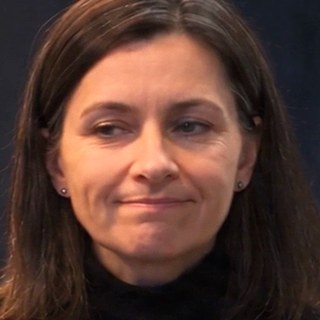
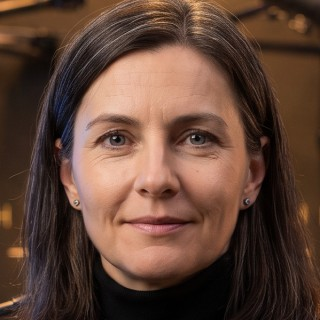
dron: Irena s portrétem ze studia, klik na video = play/pauza, klik mimo složí text, nadpis Jedna stránka, pět ploch

diff --git a/public/dron/index.html b/public/dron/index.html
@@ -1134,6 +1134,12 @@
   .li-vice:hover,.li-vice:focus-visible{color:#0a66c2;text-decoration:underline;outline:none}
   /* zvuk u rozhovoru: video hraje ztlumené jako ve feedu, tlačítko ho pustí nahlas */
   .li-mwrap{position:relative}
+  .li-mwrap video{cursor:pointer}
+  /* klik na video = play/pauza; ikona jen po ruční pauze, ne když video stojí mimo záběr */
+  .li-play{position:absolute;left:50%;top:50%;width:64px;height:64px;margin:-32px 0 0 -32px;border-radius:50%;
+    background:rgba(0,0,0,.55);display:none;place-items:center;pointer-events:none}
+  .li-play svg{width:26px;height:26px;fill:#fff;margin-left:3px}
+  .li-mwrap.li-pauza .li-play{display:grid}
   .li-zvuk{position:absolute;right:12px;bottom:12px;width:34px;height:34px;padding:0;border:0;border-radius:50%;
     background:rgba(0,0,0,.62);display:grid;place-items:center;cursor:pointer}
   .li-zvuk svg{width:18px;height:18px;fill:none;stroke:#fff;stroke-width:1.7;stroke-linecap:round;stroke-linejoin:round}
@@ -1826,8 +1832,8 @@
 <section id="marketing" class="sek">
   <div class="rám">
     <p class="kick">Posty a formáty</p>
-    <h2>Jedna věta, čtyři plochy</h2>
-    <p class="pod">Sdělení stránky zkrácené na jeden claim a jeden záběr, stejné v postu i na billboardu. Druhý post nese minutu z rozhovoru.</p>
+    <h2>Jedna stránka, pět ploch</h2>
+    <p class="pod">Claim a záběr ze stránky jsou v postu i na billboardu stejné. Druhý post nese minutu z rozhovoru.</p>
     <div class="mkt-posty">
       <div>
         <p class="mkt-stitek">LinkedIn &middot; video 4:5</p>
@@ -1852,11 +1858,14 @@
 
         <a href="#" onclick="return false">fly4future.com/custom-drones/roboaid</a></span></div>
 
-          <video class="li-media" id="livid" playsinline muted loop preload="metadata"
-            poster="/dron/li/post-poster.jpg"
-            aria-label="Promo video RoboAid ve formátu 4:5">
-            <source src="/dron/li/post.mp4" type="video/mp4">
-          </video>
+          <div class="li-mwrap">
+            <video class="li-media" id="livid" playsinline muted loop preload="metadata"
+              poster="/dron/li/post-poster.jpg"
+              aria-label="Promo video RoboAid ve formátu 4:5">
+              <source src="/dron/li/post.mp4" type="video/mp4">
+            </video>
+            <span class="li-play" aria-hidden="true"><svg viewBox="0 0 24 24"><path d="M7 4.5v15l12-7.5z"/></svg></span>
+          </div>
 
           <div class="li-eng" aria-hidden="true">
             <span class="li-reakce"><i class="li-r li-r-like"><svg viewBox="0 0 16 16"><path d="M4.2 7.2H2.6v6.2h1.6zM5.4 13.4h5.3c.6 0 1.1-.4 1.3-1l1.1-3.9c.2-.8-.4-1.6-1.2-1.6H9.4l.4-2.3c.1-.7-.4-1.3-1.1-1.3-.4 0-.7.2-.9.5L5.4 7.2z"/></svg></i><i class="li-r li-r-love"><svg viewBox="0 0 16 16"><path d="M8 13.3 3.4 9A2.9 2.9 0 0 1 7.5 4.9l.5.5.5-.5A2.9 2.9 0 1 1 12.6 9z"/></svg></i><i class="li-r li-r-idea"><svg viewBox="0 0 16 16"><path d="M8 2.4a3.9 3.9 0 0 0-2.3 7c.4.3.6.7.6 1.2v.6h3.4v-.6c0-.5.2-.9.6-1.2A3.9 3.9 0 0 0 8 2.4zM6.3 12.2h3.4v1.4H6.3z"/></svg></i><span>186</span></span>
@@ -1896,6 +1905,7 @@
               aria-label="Rozhovor Waltera Hofera s Irenou Kovářovou o RoboAidu, formát 4:5 s českými titulky">
               <source src="/dron/li/podcast.mp4" type="video/mp4">
             </video>
+            <span class="li-play" aria-hidden="true"><svg viewBox="0 0 24 24"><path d="M7 4.5v15l12-7.5z"/></svg></span>
             <button type="button" class="li-zvuk" aria-pressed="false" aria-label="Zapnout zvuk">
               <svg class="li-zv-off" viewBox="0 0 24 24" aria-hidden="true"><path d="M4 9.5h3.2L12 5.5v13l-4.8-4H4z"/><path d="m16 9.5 5 5m0-5-5 5"/></svg>
               <svg class="li-zv-on" viewBox="0 0 24 24" aria-hidden="true"><path d="M4 9.5h3.2L12 5.5v13l-4.8-4H4z"/><path d="M15.5 9a4.2 4.2 0 0 1 0 6M18 6.5a7.8 7.8 0 0 1 0 11"/></svg>
@@ -1941,7 +1951,28 @@
       txt.classList.add('otevreno'); vice.setAttribute('aria-expanded', 'true');
     });
   });
+  // klik mimo rozbalený text ho zase složí; výjimka je video a zvuk téže karty,
+  // aby pauza nezkrátila text a neposunula video pod prstem
+  document.addEventListener('click', function(e){
+    document.querySelectorAll('.li-text.otevreno').forEach(function(txt){
+      if (txt.contains(e.target)) return;
+      var karta = txt.closest('.li-karta');
+      if (karta && karta.contains(e.target) && e.target.closest('.li-mwrap')) return;
+      txt.classList.remove('otevreno');
+      var vice = txt.querySelector('.li-vice'); if (vice) vice.setAttribute('aria-expanded', 'false');
+    });
+  });
   var videa = document.querySelectorAll('.li-media');
+  // klik na video = play/pauza jako na LinkedInu; ruční pauza drží i po návratu do záběru
+  document.querySelectorAll('.li-mwrap').forEach(function(w){
+    var v = w.querySelector('video');
+    v.addEventListener('click', function(){
+      if (v.paused){ v.dataset.rucne = ''; var p = v.play(); if (p && p.catch) p.catch(function(){}); }
+      else { v.dataset.rucne = '1'; v.pause(); }
+    });
+    v.addEventListener('play', function(){ w.classList.remove('li-pauza'); });
+    v.addEventListener('pause', function(){ if (v.dataset.rucne) w.classList.add('li-pauza'); });
+  });
   // zvuk: tlačítko u rozhovoru přepíná ztlumení, mimo záběr se video zase ztlumí
   document.querySelectorAll('.li-zvuk').forEach(function(tl){
     var v = tl.parentNode.querySelector('video');
@@ -1956,7 +1987,7 @@
   var io = new IntersectionObserver(function(zaznamy){
     zaznamy.forEach(function(z){
       var v = z.target;
-      if (z.isIntersecting){ var p = v.play(); if (p && p.catch) p.catch(function(){}); }
+      if (z.isIntersecting){ if (!v.dataset.rucne){ var p = v.play(); if (p && p.catch) p.catch(function(){}); } }
       else {
         v.pause();
         var tl = v.parentNode.querySelector('.li-zvuk');
